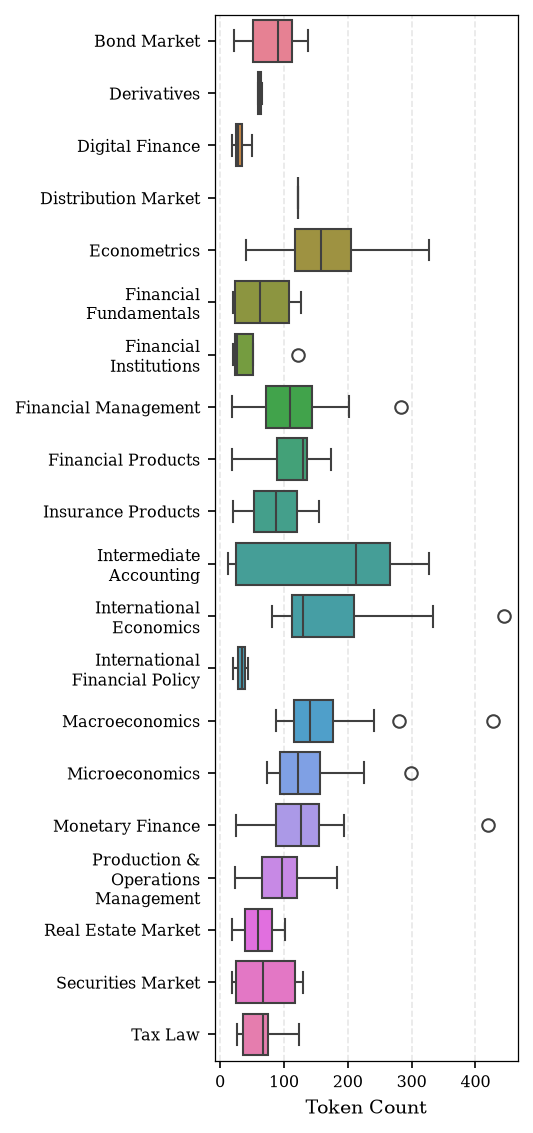
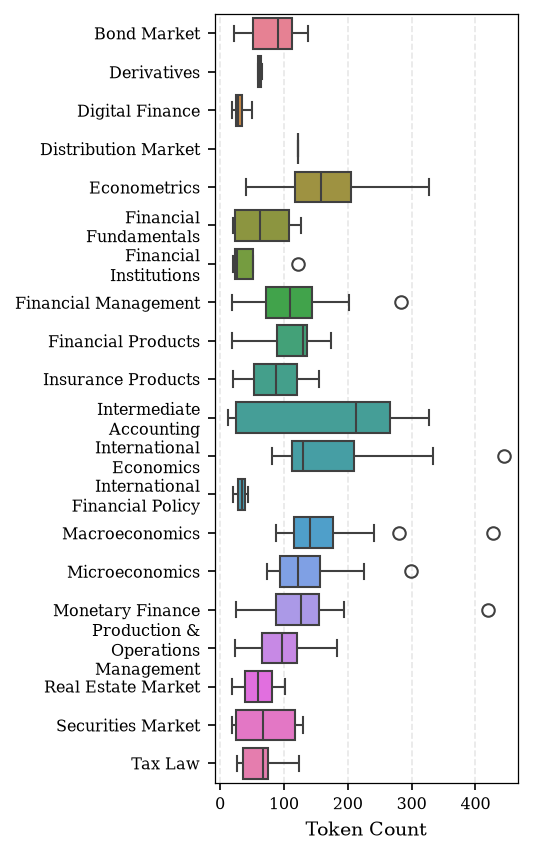
Boxplots: compress horizontal height so figures float near their reference

diff --git a/visualize/visualize_question_length.py b/visualize/visualize_question_length.py
@@ -233,7 +233,7 @@ for info in files_info:
         # Horizontal boxplot: categories on the y-axis so long names read
         # left-to-right (wrapped to two lines) without rotation. Height scales
         # with the number of categories.
-        plt.figure(figsize=(3.5, 0.34 * n_cat + 0.8))
+        plt.figure(figsize=(3.5, 0.26 * n_cat + 0.55))
         ax = sns.boxplot(
             y=info["group_col"],
             x="token_length",
